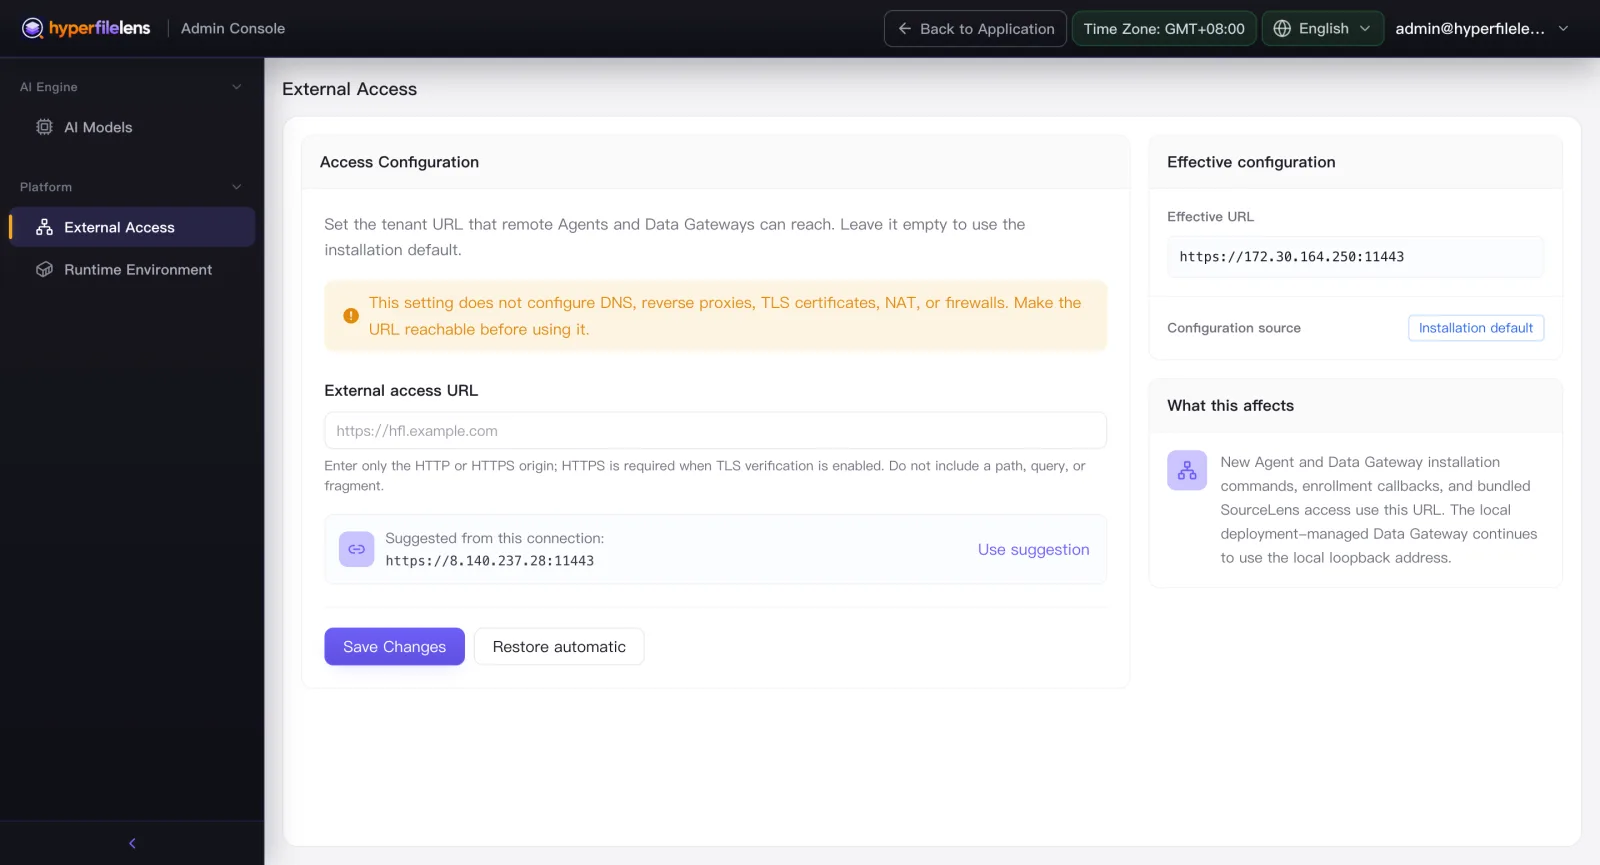
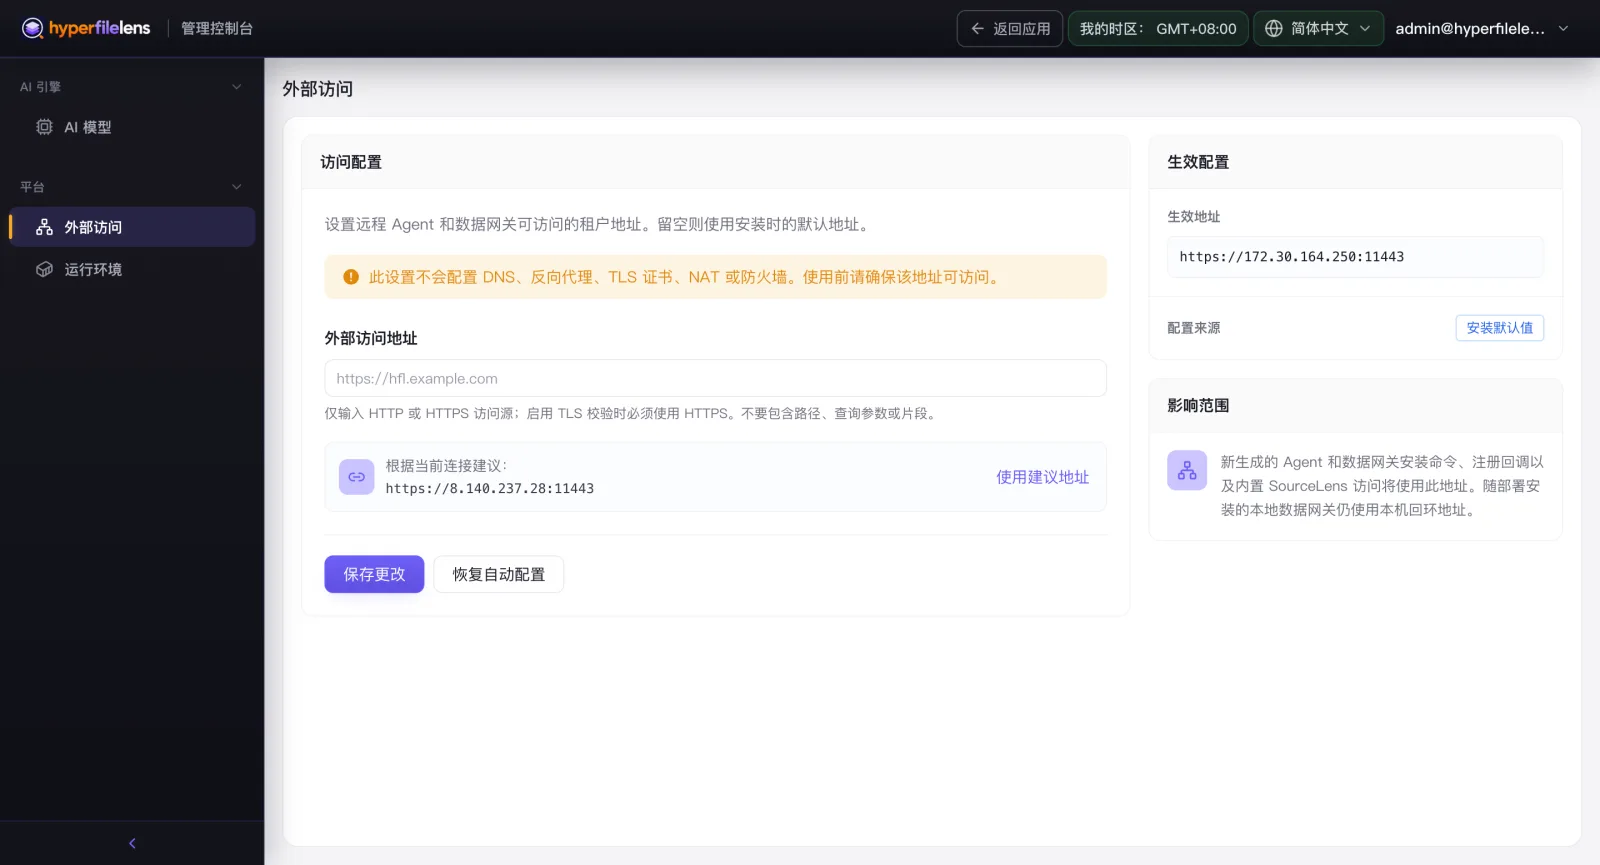
Fix wrong-language screenshot and Chinese/English UI-label mixing
Verified every screenshot used in the article by directly viewing its
actual pixel content instead of assuming EN/ZH pairing by timestamp
order -- that assumption was wrong at least once: the External Access
screenshot (162133) was actually the English capture; swapped it for
the real Chinese one (162123).

While auditing, confirmed the true Chinese labels for every other UI
reference in the piece (数据保护/备份向导/添加源/源端主机/已注册/在线/
添加对象存储仓库/S3 兼容存储/鉴权地址/立即备份/浏览备份数据/AI 引擎/
AI 模型/添加 AI 模型/供应商/测试连接/洞察/AI 助手/新建对话/知识问答/
公共数据网关/开始对话) and replaced the English UI terms the prose had
been using throughout, since this is a Chinese-locale walkthrough
illustrated with Chinese screenshots.

Claude-Session: https://claude.ai/code/session_016WFb3SdjkJx9BJm98zj1Rq

diff --git a/content/ai/diy-cloud-backup-with-ai-insights.md b/content/ai/diy-cloud-backup-with-ai-insights.md
@@ -76,27 +76,27 @@ curl -fsSL \
 
 ## 第二步：配置 NAT 访问地址和 AI 模型
 
-后面注册主机、加存储、生成 Agent 安装命令，都要用到这台主机对外的访问地址；AI Copilot 也得先有模型才能用。这两件事跟具体的备份流程没关系，但都得在动手加数据源之前配好，不然中途改了还得回头重新注册。
+后面注册主机、加存储、生成 Agent 安装命令，都要用到这台主机对外的访问地址；AI 助手也得先有模型才能用。这两件事跟具体的备份流程没关系，但都得在动手加数据源之前配好，不然中途改了还得回头重新注册。
 
-**外部访问地址**：如果这台主机买在公有云上，安装脚本打印的是内网 IP，但实际对外能访问到的是云厂商的 NAT 或公网地址，这里要先改一下。打开 `Platform Ops`，进 **External Access**，把外部访问地址改成真正能连到的那个公网地址。
+**外部访问地址**：如果这台主机买在公有云上，安装脚本打印的是内网 IP，但实际对外能访问到的是云厂商的 NAT 或公网地址，这里要先改一下。打开 `Platform Ops`，进 **外部访问**，把外部访问地址改成真正能连到的那个公网地址。
 
-{{< figure src="/images/diy-cloud-backup-with-ai-insights/platform-external-access.webp" alt="Platform Ops 外部访问配置页面，展示访问配置输入框、当前生效地址和建议的公网访问地址" caption="主机在公有云上，要把外部访问地址改成公网 IP" >}}
+{{< figure src="/images/diy-cloud-backup-with-ai-insights/platform-external-access.webp" alt="外部访问配置页面，展示访问配置输入框、当前生效地址和建议的公网访问地址" caption="主机在公有云上，要把外部访问地址改成公网 IP" >}}
 
-**AI 模型**：还在 `Platform Ops`，进 **AI Engine → AI Models**，点 **Add AI Model**。Provider 里直接能选到 **DeepSeek**，不用绕道其他网关。
+**AI 模型**：还在 `Platform Ops`，进 **AI 引擎 → AI 模型**，点 **添加 AI 模型**。供应商里直接能选到 **DeepSeek**，不用绕道其他网关。
 
-{{< figure src="/images/diy-cloud-backup-with-ai-insights/add-ai-model-provider.webp" alt="Add AI Model 页面的 Provider 选择列表，OpenAI、DeepSeek、DashScope (Qwen)、Anthropic 等主流供应商都在其中" caption="Provider 列表里直接有 DeepSeek" >}}
+{{< figure src="/images/diy-cloud-backup-with-ai-insights/add-ai-model-provider.webp" alt="添加 AI 模型页面的供应商选择列表，OpenAI、DeepSeek、DashScope (Qwen)、Anthropic 等主流供应商都在其中" caption="供应商列表里直接有 DeepSeek" >}}
 
-加 **DeepSeek-V4-Flash**（Model ID：`deepseek-v4-flash`）处理文本问答；需要识别图片就再加一个 **DeepSeek-V4-Flash-Vision-Exp**（Model ID：`deepseek-v4-flash-vision-exp`）。Base URL 填 `https://api.deepseek.com`，配好 API Key，**Test Connection** 通过后设成 **Default Agent**。
+加 **DeepSeek-V4-Flash**（Model ID：`deepseek-v4-flash`）处理文本问答；需要识别图片就再加一个 **DeepSeek-V4-Flash-Vision-Exp**（Model ID：`deepseek-v4-flash-vision-exp`）。Base URL 填 `https://api.deepseek.com`，配好 API Key，**测试连接** 通过后保存。
 
 ## 第三步：备份数据
 
-进入 **Protection → Backup Wizard**，点 **Add Source**，选 **Source Host**，操作系统选 Linux（Windows、macOS 同样支持）。
+进入 **数据保护 → 备份向导**，点 **添加源**，选 **源端主机**，操作系统选 Linux（Windows、macOS 同样支持）。
 
-{{< figure src="/images/diy-cloud-backup-with-ai-insights/add-source-select-os.webp" alt="Add Backup Source 页面，选择 Source Host，目标操作系统选中 Linux" caption="选主机操作系统，复制安装命令" >}}
+{{< figure src="/images/diy-cloud-backup-with-ai-insights/add-source-select-os.webp" alt="添加备份源页面，选择源端主机，目标操作系统选中 Linux" caption="选主机操作系统，复制安装命令" >}}
 
-界面会给出一段安装命令，复制到目标主机终端里执行，等它提示安装完成。回到 Backup Wizard 刷新数据源列表，确认新加的这台机器状态是 **Registered**（已注册）、**Online**（在线）。
+界面会给出一段安装命令，复制到目标主机终端里执行，等它提示安装完成。回到备份向导刷新数据源列表，确认新加的这台机器状态是 **已注册**、**在线**。
 
-{{< figure src="/images/diy-cloud-backup-with-ai-insights/backup-source-registered.webp" alt="Backup Wizard 数据源列表，新注册的 Linux 主机状态显示在线、已注册" caption="主机注册成功，状态在线" >}}
+{{< figure src="/images/diy-cloud-backup-with-ai-insights/backup-source-registered.webp" alt="备份向导数据源列表，新注册的 Linux 主机状态显示在线、已注册" caption="主机注册成功，状态在线" >}}
 
 ## 第四步：配置对象存储，跑通第一次备份
 
@@ -104,46 +104,46 @@ curl -fsSL \
 
 {{< figure src="/images/diy-cloud-backup-with-ai-insights/create-backup-configuration.webp" alt="创建备份配置向导，左侧是备份源、备份策略、目标端、恢复计划、确认信息五个步骤，右侧展示主机目录树和路径选择" caption="创建备份配置：备份源 → 备份策略 → 目标端 → 恢复计划 → 确认信息" >}}
 
-路径选好之后到"目标端"这一步，需要一个对象存储 Repository。在存储控制台建一个 Bucket，另外建一个子账号，只授予这个 Bucket 的读写和列举权限，拿到 Access Key 和 Secret Key——不要用主账号的 AK/SK。回到 HyperFileLens 点 **Add Repository**，选自己的存储平台——阿里云、华为云、AWS 都有预设，其他 S3 兼容存储直接选 **S3-Compatible Storage**，填 Endpoint、Region、Access Key / Secret Key、Bucket 名称、Object Prefix（比如 `hfl/`），保存后验证，等状态变成连通。Secret Key 只在创建时显示一次，截图、聊天记录、代码仓库里都不要留底。
+路径选好之后到"目标端"这一步，需要一个对象存储仓库。在存储控制台建一个 Bucket，另外建一个子账号，只授予这个 Bucket 的读写和列举权限，拿到 Access Key 和 Secret Key——不要用主账号的 AK/SK。回到 HyperFileLens 点 **添加对象存储仓库**，选自己的存储平台——Huawei Cloud、Alibaba Cloud、AWS 都有预设，其他 S3 兼容存储直接选 **S3 兼容存储**，填鉴权地址、Region、Access Key / Secret Key、Bucket 名称、Object Prefix（比如 `hfl/`），保存后验证，等状态变成连通。Secret Key 只在创建时显示一次，截图、聊天记录、代码仓库里都不要留底。
 
-{{< figure src="/images/diy-cloud-backup-with-ai-insights/add-object-storage-repository.webp" alt="Add Object Storage Repository 表单，展示 Huawei Cloud、Alibaba Cloud、AWS、S3-Compatible Storage 四个预设平台，以及 Endpoint、Region、Access Key、Secret Key 等连接字段" caption="对象存储平台随便选，字段都差不多" >}}
+{{< figure src="/images/diy-cloud-backup-with-ai-insights/add-object-storage-repository.webp" alt="添加对象存储仓库表单，展示 Huawei Cloud、Alibaba Cloud、AWS、S3 兼容存储四个预设平台，以及鉴权地址、Region、Access Key、Secret Key 等连接字段" caption="对象存储平台随便选，字段都差不多" >}}
 
 对象存储怎么收费，心里得有个数。以阿里云 OSS 标准存储为例：存储 0.12 元/GB/月，算下来一年大概 1.5 元/GB；下行流量（下载、恢复、AI 洞察读取都算在内）按量付费是 0.25～0.5 元/GB（闲时/忙时），上传和内网流量免费。华为云 OBS、AWS S3 这些价格量级都差不多，具体以官网当前价格为准。备份这点数据存储费基本可以忽略，真正要留意的是下行流量——平时不怎么恢复、不怎么问 AI 的话感觉不到，用得频繁了才会体现在账单上。
 
-回到备份配置向导，目标端指定成这个 Repository，备份策略和恢复计划先用默认值，跑通流程要紧，后面再回来调。确认信息无误后保存，回到数据源列表点 **Backup Now**，等任务状态变成 **Succeeded**。
+回到备份配置向导，目标端指定成这个仓库，备份策略和恢复计划先用默认值，跑通流程要紧，后面再回来调。确认信息无误后保存，回到数据源列表点 **立即备份**，等任务状态变成 **成功**。
 
-{{< figure src="/images/diy-cloud-backup-with-ai-insights/backup-task-succeeded.webp" alt="Backup Wizard 第三步开始备份，两台主机的备份任务状态均为 Succeeded" caption="备份任务跑完，状态 Succeeded" >}}
+{{< figure src="/images/diy-cloud-backup-with-ai-insights/backup-task-succeeded.webp" alt="备份向导第三步开始备份，两台主机的备份任务状态均为成功" caption="备份任务跑完，状态成功" >}}
 
 ## 第五步：确认备份成功
 
-进主机详情页看 **Snapshot Points**，状态 **Available** 就说明这次快照没问题。顺手展开文件浏览器看一眼去重率和压缩率——这就是 Kopia 增量备份的真实效果。
+点 **浏览备份数据**，选一个快照，状态 **可用** 就说明这次没问题。顺手展开文件浏览器看一眼去重率和压缩率——这就是 Kopia 增量备份的真实效果。
 
 {{< figure src="/images/diy-cloud-backup-with-ai-insights/snapshot-browser-efficiency.webp" alt="快照文件浏览器，展示恢复大小、新增数据、快照大小、复用率 99.9%、压缩节省率 75.9%、缩减比 6234.74:1 等存储效率指标，以及目录结构" caption="快照可用，去重和压缩效果一目了然" >}}
 
-备份和能恢复是两回事，找个文件测一下：进 **Restore**，选这个快照，冲突策略选 **Skip**，源路径填想恢复的文件，目标目录填个新路径，等状态变成 **Succeeded**，核对内容一致。这一步过了，备份才算真的能用，不是摆设。
+备份和能恢复是两回事，找个文件测一下：点 **恢复**，选这个快照和要恢复的文件，目标路径填一个新目录避免覆盖，跑完之后核对内容一致。这一步过了，备份才算真的能用，不是摆设。
 
 ## 第六步：用 AI 提问
 
-AI 模型第二步已经配好了，这里直接用。回到 `HyperFileLens · 11443`，进 **Insights → AI Copilot**，左侧能看到历史对话列表，点 **New Chat** 新建一个。
+AI 模型第二步已经配好了，这里直接用。回到 `HyperFileLens · 11443`，进 **洞察 → AI 助手**，左侧能看到历史对话列表，点 **新建对话**。
 
 先选数据源、快照，把要分析的文件加进来——支持 PDF、DOCX、PPTX、XLSX，处理的是备份快照里的副本，不动生产环境的实时数据。
 
-{{< figure src="/images/diy-cloud-backup-with-ai-insights/ai-copilot-new-chat-source.webp" alt="AI Copilot 新建对话，选择备份源、快照、要分析的文件和文件夹" caption="新建对话：选数据源、快照、要分析的文件" >}}
+{{< figure src="/images/diy-cloud-backup-with-ai-insights/ai-copilot-new-chat-source.webp" alt="AI 助手新建对话，选择备份源、快照、要分析的文件和文件夹" caption="新建对话：选数据源、快照、要分析的文件" >}}
 
-再选分析类型和数据隐私：分析类型选 **Knowledge Q&A**，数据处理方式选 **Public Data Gateway**（用平台的公共数据网关，不用额外部署）。
+再选分析类型和数据隐私：分析类型选 **知识问答（推荐）**，数据隐私选 **公共数据网关**（用平台提供的网关，不用额外部署）。
 
-{{< figure src="/images/diy-cloud-backup-with-ai-insights/ai-copilot-new-chat-analysis.webp" alt="AI Copilot 新建对话，分析类型选择 Knowledge Q&A（推荐），数据隐私选择 Public Data Gateway" caption="分析类型选 Knowledge Q&A，数据隐私选公共网关" >}}
+{{< figure src="/images/diy-cloud-backup-with-ai-insights/ai-copilot-new-chat-analysis.webp" alt="AI 助手新建对话，分析类型选择知识问答（推荐），数据隐私选择公共数据网关" caption="分析类型选知识问答，数据隐私选公共数据网关" >}}
 
-点 **Start Chat**，等数据准备完就能直接提问。比如问一份小说文档："这份文档的结局是什么，几个主要角色最后都是什么结果？" AI 会基于备份里的原始文件直接回答，带引用来源，能追溯到具体文件和段落。这一步会把文件内容读回主机处理，产生的下行流量按第四步说的那个价格算。
+点 **开始对话**，等数据准备完就能直接提问。比如问一份小说文档："这份文档的结局是什么，几个主要角色最后都是什么结果？" AI 会基于备份里的原始文件直接回答，带引用来源，能追溯到具体文件和段落。这一步会把文件内容读回主机处理，产生的下行流量按第四步说的那个价格算。
 
-{{< figure src="/images/diy-cloud-backup-with-ai-insights/ai-copilot-answer.webp" alt="AI Copilot 对话界面，针对备份文件中的一份文档提问，AI 给出结构化的中文回答，并标注来源文件和创建时间" caption="直接对着备份文件提问，答案带来源" >}}
+{{< figure src="/images/diy-cloud-backup-with-ai-insights/ai-copilot-answer.webp" alt="AI 助手对话界面，针对备份文件中的一份文档提问，AI 给出结构化的中文回答，并标注来源文件和创建时间" caption="直接对着备份文件提问，答案带来源" >}}
 
 ## 跑完这一圈，到底省下了什么
 
 对比一下直接用 Kopia 命令行或者 KopiaUI 的方式：
 
 - **备份引擎没换**：去重、端到端加密这些 Kopia 自带的硬核能力原样保留，没有推倒重做；
-- **配置流程从背命令变成点几下**：加数据源、加存储、点 Backup Now，三步跑完，不用记 Kopia 的 repository connect 参数和策略命令；
+- **配置流程从背命令变成点几下**：加数据源、加存储、点立即备份，三步跑完，不用记 Kopia 的 repository connect 参数和策略命令；
 - **多机器多仓库有了统一视图**：不用再对着命令行和几个 KopiaUI 分别看状态；
 - **AI 直接读原始文件**：不需要提前做 Embedding、建向量库、搭一套 RAG 流水线，SourceLens 直接搜索、阅读、推理 Kopia 快照里的原始文件；
 - **模型按需换**：这里全用 DeepSeek，文本和多模态各配一个，实际接哪家 API、用哪个模型完全自定义，不绑定单一供应商；
